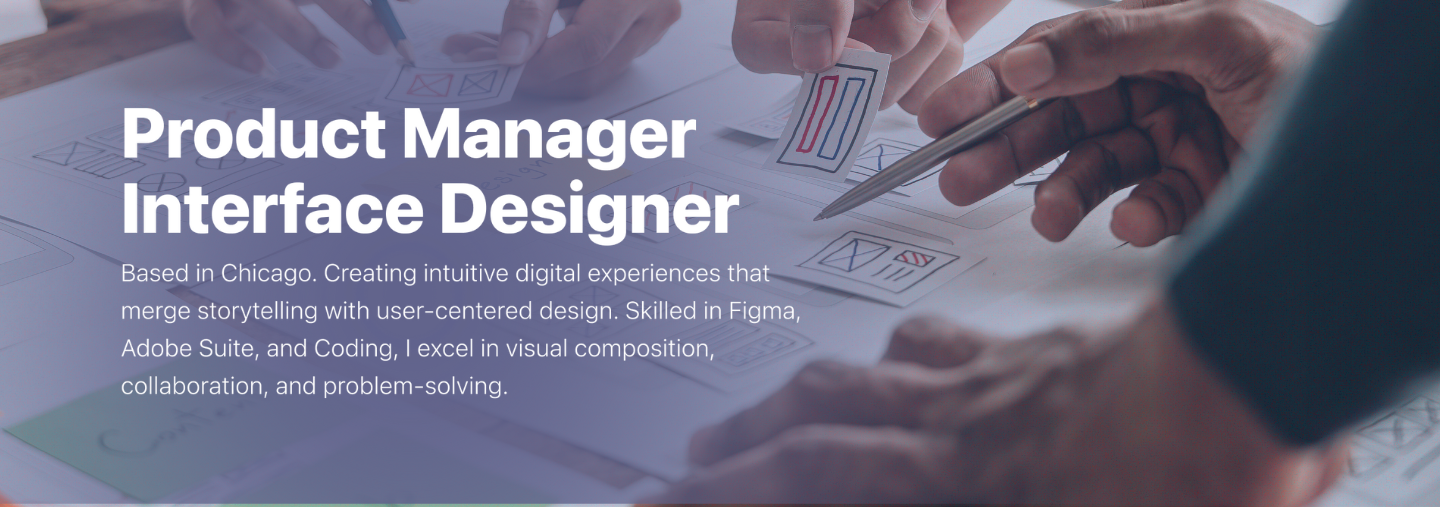
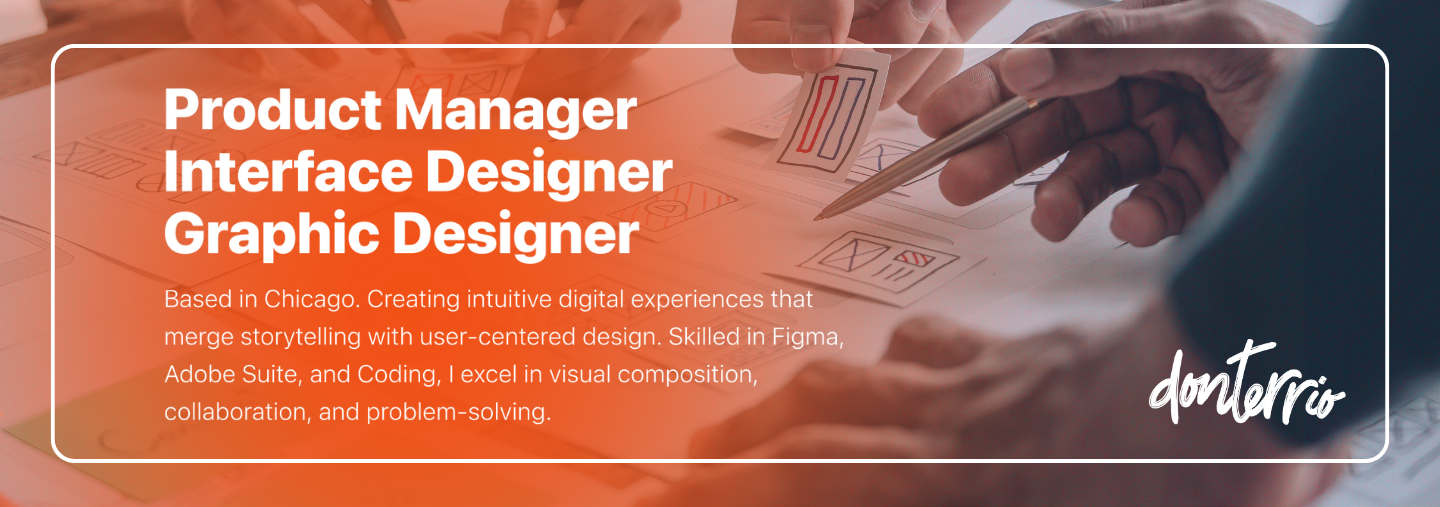
update

diff --git a/index.html b/index.html
@@ -70,11 +70,11 @@
                 <div class="d-flex ms-auto">
                     <ul class="navbar-nav">
                         <li class="nav-item">
-                            <a class="nav-link pe-3" href="javascript:void(0)">Information+</a>
+                            <a class="nav-link pe-3" href="#profile">Information+</a>
                         </li>
                     </ul>
                     <form class="d-flex ms-3"> <!-- Add margin to the left -->
-                        <button class="btn btn-primary" type="button" onclick="sendEmail()">Hire Me</button>
+                        <button class="btn btn-primary" type="button" onclick="sendEmail()">Hire!</button>
                     </form>
                 </div>
             </div>
@@ -104,35 +104,32 @@
                 <div class="card-img-overlay">
                     <h4 class="card-title">WisDOT</h4>
                     <p class="card-text">Creating a modern design solution that addresses users' frustrations with navigating DMV websites.</p>
-                    <a href="wisdot-case-study.html" class="btn btn-primary">View Case Study</a>
                 </div>
             </div>
-        
+    
             <!-- Card 2: Bon Voyage -->
             <div class="card">
                 <img src="Version 01.svg" alt="Card image">
                 <div class="card-img-overlay">
                     <h4 class="card-title">Bon Voyage</h4>
                     <p class="card-text">A travel app where solo travelers connect, share, and create memories.</p>
-                    <a href="bonvoyage-case-study.html" class="btn btn-primary">View Case Study</a>
                 </div>
             </div>
-        
+    
             <!-- Card 3: EcoQuest -->
             <div class="card">
                 <img src="Version 03.svg" alt="Card image">
                 <div class="card-img-overlay">
                     <h4 class="card-title">EcoQuest</h4>
                     <p class="card-text">Offering eco-conscious homeowners reliable recycling guidance.</p>
-                    <a href="ecoquest-case-study.html" class="btn btn-primary">View Case Study</a>
                 </div>
             </div>
         </div>
     </section>
-
+    
 
     <div class="container">
-        <div class="profile">
+        <div id="profile" class="profile">
           <img src="/webimg.svg" alt="Profile Picture">
           <h1>Donterrio (he/him)</h1>
           <h2>UX/UI Designer</h2>
@@ -142,7 +139,7 @@
         </div>
 
     
-        <div class="about">
+        <div id="about" class="about">
             <h3> ABOUT ME</h3>
           <h1>The future belongs to the storytellers</h1>
           <p>"Hi, I’m Donterrio. My journey from the theater to UI design has been all about translating the art of storytelling into the digital space. As a creative director, I honed the craft of building narratives and visual experiences that truly resonate with audiences. 
@@ -154,7 +151,8 @@
             <p><strong>Education</strong></p>
             <p>2024 - UX/UI Boot Camp, Northwestern University <br> GPA: 3.60 / 4.00</p>
             <p>2012 - BFA in Musical Theatre, American Musical and Dramatic Academy</p>
-            <a href="#" class="resume-button">Resume</a>
+            <a href="https://drive.google.com/file/d/1d16Bkc2DQs8Pz49HCIOJtE6C4_clfqDV/view?usp=share_link" class="resume-button" download>Resume</a>
+
           </div>
         </div>
       </div>

diff --git a/style.css b/style.css
@@ -1,3 +1,6 @@
+html {
+    scroll-behavior: smooth;
+}
 
 
 
@@ -19,6 +22,17 @@ body {
     border-bottom-right-radius: 20px; /* Round bottom right corner */
     overflow: hidden; /* Ensures the shadow follows the rounded corners */
 }
+.btn-primary {
+    background-color: #F25116; /* Orange color */
+    border-color: #F25116;     /* Border matches the background */
+    color: white;              /* White text for contrast */
+}
+
+.btn-primary:hover {
+    background-color: #F2935C; /* Lighter orange for hover state */
+    border-color: #F2935C;
+}
+
 
 .hero-section {
     padding: 0;
@@ -85,6 +99,7 @@ body {
   }
 
   .about {
+    color: #61638C;
     flex: 2;
     padding: 20px;
     background-color: white;
@@ -94,7 +109,7 @@ body {
   }
   .about h1 {
     font-size: 36px;
-    color: #151626;
+    color:#F25116;
   }
   .about p {
     font-size: 16px;
@@ -105,7 +120,7 @@ body {
     margin-top: 20px;
   }
   .resume-button {
-    background-color: #333;
+    background-color: #F25116;
     color: #fff;
     padding: 10px 20px;
     text-decoration: none;
@@ -157,45 +172,51 @@ body {
 .card-container {
     display: flex;
     gap: 20px;
+    justify-content: space-around; /* Adjust to distribute the cards */
 }
+
+
 .card {
     position: relative;
-    cursor: pointer;
+    border-radius: 20px; /* Rounded edges */
+    overflow: hidden; /* Prevents content from overflowing beyond the rounded corners */
+    box-shadow: 0 4px 8px rgba(0, 0, 0, 0.2); /* Drop shadow */
+    transition: transform 0.3s ease, box-shadow 0.3s ease; /* Smooth transition for hover effect */
+    width: 50%;
 }
+
+.card img {
+    width: 100%; /* Ensure the image takes up the full card width */
+    height: auto; /* Keep image aspect ratio */
+}
+
+.card:hover {
+    transform: scale(1.05); /* Slightly enlarge the card on hover */
+    box-shadow: 0 8px 16px rgba(0, 0, 0, 0.3); /* Stronger shadow on hover */
+}
+
 .card-img-overlay {
     position: absolute;
     top: 0;
     left: 0;
     width: 100%;
     height: 100%;
-    background: rgba(0, 0, 0, 0.5);
-    color: white;
     padding: 20px;
+    display: flex;
+    flex-direction: column;
+    justify-content: flex-start;
+    /* background: rgba(255, 255, 255, 0.5); Semi-transparent background for readability */
+    color: #61638C; /* Ensure the text remains black */
 }
 
-/* Full-page overlay styling */
-.overlay {
-    position: fixed;
-    top: 0;
-    left: 0;
-    width: 100%;
-    height: 100%;
-    background-color: rgba(0, 0, 0, 0.8);
-    display: none;
-    justify-content: center;
-    align-items: center;
-    z-index: 1000;
-    overflow-y: auto;
+.card-title {
+    font-size: 1.5em;
+    font-weight: bold;
 }
 
-.overlay-content {
-    position: relative;
-    background-color: white;
-    padding: 20px;
-    width: 80%;
-    height: 80%;
-    overflow-y: auto;
-    border-radius: 10px;
+.card-text {
+    font-size: 1em;
+    /* margin-top: 10px; */
 }
 
 /* Close button */
